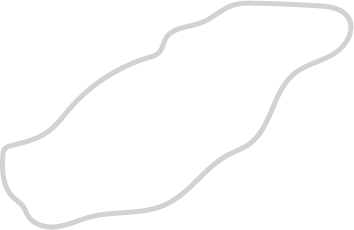
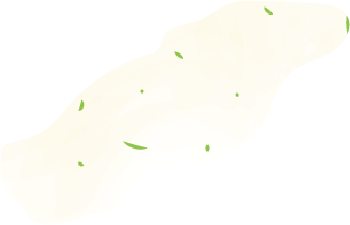
changed images to color, adjusted css animations

diff --git a/css/animate.css b/css/animate.css
@@ -19,7 +19,7 @@ Copyright (c) 2014 Daniel Eden
 
 /*plate*/
 
-.fadeOutLeft {
+.plate {
   -webkit-animation-name: fadeOutLeft;
   animation-name: fadeOutLeft;
 }
@@ -56,7 +56,7 @@ Copyright (c) 2014 Daniel Eden
 
 /*bread*/
 
-.rotateOutUpLeft {
+.bread {
   -webkit-animation-name: rotateOutUpLeft;
           animation-name: rotateOutUpLeft;
 }
@@ -71,8 +71,8 @@ Copyright (c) 2014 Daniel Eden
   100% {
     -webkit-transform-origin: left bottom;
             transform-origin: left bottom;
-    -webkit-transform: rotate3d(0, 0, 1, -57deg)translateY(120px)translateX(-300px);
-            transform: rotate3d(0, 0, 1, -57deg)translateY(120px)translateX(-300px);
+    -webkit-transform: rotate(-57deg)translateY(0px) translateX(-250px);
+            transform: rotate(-57deg)translateY(0px) translateX(-250px);
     opacity: 1;
   }
 }
@@ -87,8 +87,8 @@ Copyright (c) 2014 Daniel Eden
   100% {
     -webkit-transform-origin:  left bottom;
             transform-origin: left bottom;
-    -webkit-transform: rotate3d(0, 0, 1, -57deg) translateY(120px)translateX(-300px);
-            transform: rotate3d(0, 0, 1, -57deg) translateY(120px)translateX(-300px);
+    -webkit-transform: rotate(-57deg) translateY(0px)translateX(-250px);
+            transform: rotate(-57deg) translateY(0px)translateX(-250px);
     opacity: 1;
   }
 }
@@ -96,7 +96,7 @@ Copyright (c) 2014 Daniel Eden
 
 /*spread*/
 
-.rotateOutUpLeftspread {
+.spread {
   -webkit-animation-name: rotateOutUpLeftspread;
           animation-name: rotateOutUpLeftspread;
 }
@@ -111,8 +111,8 @@ Copyright (c) 2014 Daniel Eden
   100% {
     -webkit-transform-origin: left bottom;
             transform-origin: left bottom;
-    -webkit-transform: rotate3d(0, 0, 1, -57deg)translateY(270px)translateX(-100px);
-            transform: rotate3d(0, 0, 1, -57deg)translateY(270px)translateX(-100px);
+    -webkit-transform: rotate(30deg)translateY(-350px)translateX(210px);
+            transform: rotate(30deg)translateY(-350px)translateX(210px);
     opacity: 1;
   }
 }
@@ -127,14 +127,14 @@ Copyright (c) 2014 Daniel Eden
   100% {
     -webkit-transform-origin:  left bottom;
             transform-origin: left bottom;
-    -webkit-transform: rotate3d(0, 0, 1, -57deg) translateY(270px)translateX(-100px);
-            transform: rotate3d(0, 0, 1, -57deg) translateY(270px)translateX(-100px);
+    -webkit-transform: rotate(30deg) translateY(-350px)translateX(210px);
+            transform: rotate(30deg) translateY(-350px)translateX(210px);
     opacity: 1;
   }
 }
 /*salmon*/
 
-.rotateOutUpLeftmiddle {
+.salmon {
   -webkit-animation-name: rotateOutUpLeftmiddle;
           animation-name: rotateOutUpLeftmiddle;
 }
@@ -149,8 +149,8 @@ Copyright (c) 2014 Daniel Eden
   100% {
     -webkit-transform-origin: left bottom;
             transform-origin: left bottom;
-    -webkit-transform: rotate3d(0, 0, 1, -50deg)translateY(460px)translateX(-25px);
-            transform: rotate3d(0, 0, 1, -50deg)translateY(460px)translateX(-25px);
+    -webkit-transform: rotate(30deg)translateY(-200px)translateX(310px);
+            transform: rotate(30deg)translateY(-200px)translateX(310px);
     opacity: 1;
   }
 }
@@ -165,15 +165,15 @@ Copyright (c) 2014 Daniel Eden
   100% {
     -webkit-transform-origin:  left bottom;
             transform-origin: left bottom;
-    -webkit-transform: rotate3d(0, 0, 1, -50deg) translateY(460px)translateX(-25px);
-            transform: rotate3d(0, 0, 1, -50deg) translateY(460px)translateX(-25px);
+    -webkit-transform: rotate(30deg) translateY(-200px)translateX(310px);
+            transform: rotate(30deg) translateY(-200px)translateX(310px);
     opacity: 1;
   }
 }
 
 /*dill*/
 
-.rotateOutUpLeftright {
+.dill {
   -webkit-animation-name: rotateOutUpLeftright;
           animation-name: rotateOutUpLeftright;
 }
@@ -188,8 +188,8 @@ Copyright (c) 2014 Daniel Eden
   100% {
     -webkit-transform-origin: left bottom;
             transform-origin: left bottom;
-    -webkit-transform: rotate3d(0, 0, 1, -50deg)translateY(600px)translateX(50px);
-            transform: rotate3d(0, 0, 1, -50deg)translateY(600px)translateX(50px);
+    -webkit-transform: rotate(30deg)translateY(-100px)translateX(400px);
+            transform: rotate(30deg)translateY(-100px)translateX(400px);
     opacity: 1;
   }
 }
@@ -204,8 +204,8 @@ Copyright (c) 2014 Daniel Eden
   100% {
     -webkit-transform-origin:  left bottom;
             transform-origin: left bottom;
-    -webkit-transform: rotate3d(0, 0, 1, -50deg) translateY(600px)translateX(50px);
-            transform: rotate3d(0, 0, 1, -50deg) translateY(600px)translateX(50px);
+    -webkit-transform: rotate(30deg) translateY(-100px)translateX(400px);
+            transform: rotate(30deg) translateY(-100px)translateX(400px);
     opacity: 1;
   }
 }

diff --git a/index.html b/index.html
@@ -4,6 +4,7 @@
 		<title>Canape</title>
 		<link rel="stylesheet" href="css/animate.css" type="text/css">
 		<link rel="stylesheet" href="css/style.css" type="text/css">
+		<link href='http://fonts.googleapis.com/css?family=Permanent+Marker' rel='stylesheet' type='text/css'>
 		<link href='http://fonts.googleapis.com/css?family=Montserrat' rel='stylesheet' type='text/css'>
 		<script src="js/wow.min.js"></script>
 		<script>
@@ -12,8 +13,8 @@
 	</head>
 	<body>
 		<header>
-			<a href="canape/index.html">
-				<img src="img/canape-04.png" alt="Canape">
+			<a:link href="index.html">
+				Canap&eacute;
 			</a>
 			<div id="wrapper">
 				<nav id="nav">
@@ -26,33 +27,33 @@
 				</nav>
 		</header>
 		<section>
-			<img src="img/canape_dish.png" alt="Canape">
+			<img src="img/tartine.png" alt="Canape">
 			<p>Canape is a cafe that aims to offer a fresh experience featuring seasonal ingredients.</p>
 			</div>
 		</section>
 		<section>
 			<div class="dishes">
-				<div class="wow fadeOutLeft">
+				<div class="wow plate">
 					<div class="plate">
-						<img src="img/plate-03.png" >
+						<img src="img/plate.png" >
 					</div>
 				</div>
-				<div class="wow rotateOutUpLeft">
+				<div class="wow bread">
 					<div class="bread">
 						<img src="img/bread.png" alt="Canape" >
 					</div>
 				</div>
-				<div class="wow rotateOutUpLeftspread">
+				<div class="wow spread">
 					<div class="spread">
 						<img src="img/spread.png" alt="Canape" >
 					</div>
 				</div>
-				<div class="wow rotateOutUpLeftmiddle">
+				<div class="wow salmon">
 					<div class="salmon">
 						<img src="img/salmon.png" alt="Canape" >
 					</div>
 				</div>
-				<div class="wow rotateOutUpLeftright">
+				<div class="wow dill">
 					<div class="dill">
 						<img src="img/dill.png" alt="Canape" >
 					</div>

diff --git a/css/style.css b/css/style.css
@@ -1,25 +1,42 @@
+body {
+  margin: 0 auto;
+}
+
 #wrapper {
 	width: 100%;
 	margin: 0 auto;
 	position: relative;
 }
 
-header img {
-	padding-top: 75px;
+header {
+  padding-top: 75px;
   padding-bottom: 75px;
-	display: block;
-	margin: auto;
+  text-align: center;
+  margin: 0 auto;
+  font-family: permanent marker;
+  font-size: 48px;
+  color:#edba18;
+}
+
+a:link {
+  color:#edba18;
+}
+
+a:hover {
+  color:#edba18;
+  opacity: 0.8;
 }
 
 
 section {
   padding-left: 100px;
   padding-right: 100px;
-  padding-bottom: 50px;
+  padding-bottom: 75px;
 
 }
 
 section p {
+  vertical-align: middle;
   float: right;
   font-family: "Montserrat";
   color: #a7a9ab;
@@ -41,22 +58,26 @@ element.style {
 }
 
 .bread {
+  padding-top: 50px;
   z-index: 0;
-   position: absolute;
+  position: absolute;
 
 }
 
 .spread {
+  padding-top: 50px;
   z-index: 1;
   position: absolute;
 }
 
 .salmon {
+  padding-top: 50px;
   z-index: 2;
-   position: absolute;
+  position: absolute;
 }
 
 .dill {
+  padding-top: 50px;
   z-index: 3;
-   position: absolute;
+  position: absolute;
 }
